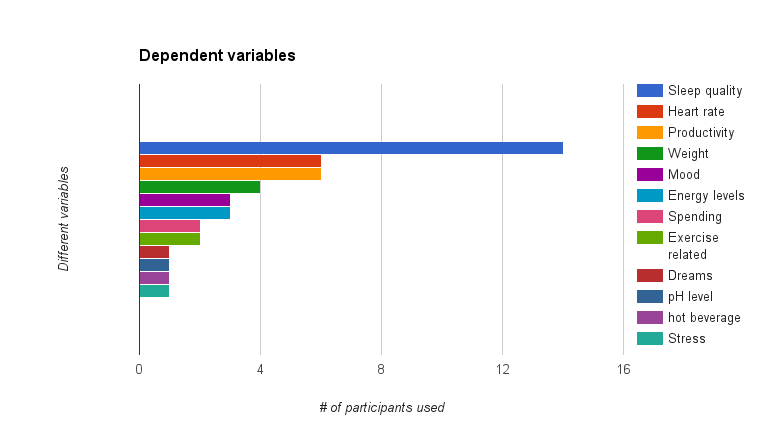
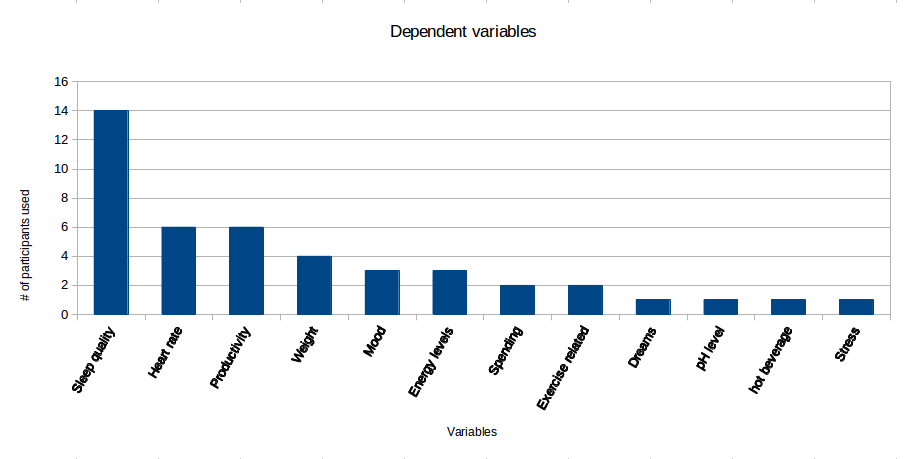
made changes to dependent variables and figures

diff --git a/SIGCHI2015LaTex/dependentvariables.tex b/SIGCHI2015LaTex/dependentvariables.tex
@@ -1,5 +1,5 @@
 \section{Dependent Variables}
-Participants in this project have been given the freedom to choose their own independent and dependent variables. This resulted in wide variety of variables to be tracked as there were varying interests and varying behavioral changes that participants wanted to experiment on. Below is the list of dependent variables that 21 participants tracked in this project. Please note that some of the variables have been grouped into a particular category. For examples the \enquote{Exercise} in the Fig.\ref{fig:variables} includes variables like \enquote{Pacing your run}  , \enquote{Swimming} and \enquote{Exercise occurrences}.
+Participants in this project have been given the freedom to choose their own independent and dependent variables. This resulted in wide variety of variables to be tracked as there were varying interests and varying behavioral changes that participants wanted to experiment on. Fig.\ref{fig:variables} has the list of dependent variables that 21 participants tracked in this project. Please note that some of the variables have been grouped into a particular category. For examples the \enquote{Exercise} in the Fig.\ref{fig:variables} includes variables like \enquote{Pacing your run}  , \enquote{Swimming} and \enquote{Exercise occurrences}.
 
 \begin{figure}[!t]\centering
 %\begin{wrapfigure}{o}{\textwidth}\centering
@@ -8,7 +8,7 @@ Participants in this project have been given the freedom to choose their own ind
 }%\end{wrapfigure}
 \end{figure}
 %
-It is very evident from Fig.\ref{fig:variables} that many participants felt necessary to track their sleep quality. Since the participant group are students of top tier college, it makes sense that sleep is something they care about in their lifestyle amidst loads of deadlines and activities. Also one can note from the previous section that the most of the devices participants used gives sleep quality as their main feature. Hence with sleep quality being the most important factor the participant group cares and it being the most easy variable that can be tracked using the devices, it is no surprise that 14 participants tracked this variable. 
+It is very evident from Fig.\ref{fig:variables} that many participants felt necessary to track their sleep quality. Since the participant group are students of top tier college, it makes sense that sleep is something they care about in their lifestyle amidst loads of deadlines and activities \cite{hershner2014causes} \cite{lund2010sleep}. Also one can note from the previous section that the most of the devices participants used gives sleep quality as their main feature. Hence with sleep quality being the most important factor the participant group cares and it being the most easy variable that can be tracked using the devices, it is no surprise that 14 participants tracked this variable. 
 
 After Sleep quality, Heart rate is another feature that wearable devices care to track about. With increasing heart diseases globally, this is one of most used metric to show if a person is healthy. Hence Heart rate is a variable that participants had easy access to and wanted to know the changes it had on their behavioral changes.
 
@@ -19,40 +19,37 @@ Weight is another variable that participant group cared to track with respect to
 Though there are other interesting variables people tracked during the experiment. this paper will focus on the top 4 variables and discuss insights and observations from the participants in detail.
 
 \begin{figure*}[!t]\centering
-%\begin{wrapfigure}{o}{\textwidth}\centering
 \includegraphics[width=0.47\textwidth]{images/Sleep_quality.jpg}
 \includegraphics[width=0.47\textwidth]{images/Productivity.jpg}
 \includegraphics[width=0.47\textwidth]{images/Heart_rate.jpg}
 \includegraphics[width=0.47\textwidth]{images/Weight.jpg}
-\caption{\footnotesize Dependent variables and the independent variables that were related to it by the participants \label{fig:dependentvsindependent} 
-}%\end{wrapfigure}
+\caption{\footnotesize Dependent variables and the independent variables that were related to it by the participants. Independent variables are clustered to represent a category such as \enquote{usage of devices}, \enquote{activities}, \enquote{schedule changes} and \enquote{consumption of drinks}. Green denotes that a conclusion was drawn out of the study, red denotes that the user rejected the hypothesis related to these variables and  blue denotes that no conclusion was drawn at the end of the study. \label{fig:dependentvsindependent} 
+}
 \end{figure*}
 
 \subsection{Sleep quality}
 For tracking sleep, participants used various applications and devices from Sleep As Android to FitBit which kept track of the amount of time people were in various levels of sleep (light, deep, R.E.M.) and how many times they woke up during the night. Devices have various approaches to measuring sleep quality. Mobile apps use ambient noise and movements in the bed to measure the sleep quality. Some wearable devices use body movements and others use a pulse sensor to measure sleep quality. The quality of the measurements is directly proportional to the cost of the device and hence the reported sleep quality measurements are approximations. 
 
-It is interesting to see what each participant\textquotesingle s hypothesis were and the independent variables that they hypothesized to affect sleep quality. Below figure shows all the independent variables that were reported directly related to sleep quality by the participants. The independent variables have been clustered into categories \enquote{usage of devices}, \enquote{activities}, \enquote{schedule changes} and \enquote{consumption of drinks}. The green edges indicates that these variables affect sleep quality. The red edge indicates that these variables do not have an effect on the sleep quality. The blue edge indicates that the experiments on these variables have not had any conclusion due to less data points.
+It is interesting to see what each participant\textquotesingle s hypothesis were and the independent variables that they hypothesized to affect sleep quality. Fig.\ref{fig:dependentvsindependent} shows all the independent variables that were reported directly related to sleep quality by the participants. The independent variables have been clustered into categories \enquote{usage of devices}, \enquote{activities}, \enquote{schedule changes} and \enquote{consumption of drinks}. The green edges indicates that these variables affect sleep quality. The red edge indicates that these variables do not have an effect on the sleep quality. The blue edge indicates that the experiments on these variables have not had any conclusion due to less data points.
 
-For the most part, least number (3) of variables seem to have affected sleep. Most of all the hypotheses (7) have been rejected by the participants. Significant number of hypotheses were inconclusive (4). 
+For the most part, least number (3) of variables seem to have affected sleep. Most of all the hypotheses (7) have been rejected by the participants. One can see that a number of hypotheses were inconclusive (4). 
 
 A common observation from the reports of the participants is that their hypothetical behavior that affects the sleep quality is not always true. For example, activities (except swimming) and device usage had no effect on the sleep quality as observed by the participants. Also one would certainly assume that a better schedule of the day will improve the sleep quality, but its been proven otherwise in this study. These are some interesting insights about the factors affecting sleep quality. 
 
 But one must note that, all these are conclusions highly biased to the individuals and their tracking methods. If every participant used a single common tracking mechanism to track the sleep quality, then it is easy to conclude in general that a particular behavior either improves or worsens the sleep quality. However with constraint on the number of days and experimental design one can adopt, some of these conclusions have given insights of what variables one might want to consider when they are tracking their sleep quality.
 
-Some interesting observations by the participants are: a) one participant had trouble falling asleep once they restricted their use of electronics, so they started reading to fill the time; b) one participant woke up more according to their findings; c) one of the user had seen improvement of 29 percent in the sleep quality when they swam in the night between 9-10.30 pm. 
-
-Others did not come to a conclusion because they felt the the variable was not properly tracked, for example, mobile devices were not as reliable in tracking sleep in comparison to wearable device. Some of the wearable devices track the motion of the hand to measure the sleep time and that could also be noisy and not accurate. So it may be the case that the data points has to be definitely more than 28 days to come to any conclusion on this regard. In addition to this the users are supposed to design their experiment in AB, ABA, ABAC etc format so they have less data points to the significant change they are tracking and I feel that the \enquote{Jet lag} pointed by one of the participant plays a significant role in producing the transition data.
+Some interesting observations by the participants are: a) one participant had trouble falling asleep once they restricted their use of electronics, so they started reading to fill the time; b) one participant woke up more according to their findings; c) one of the user had seen improvement of 29 percent in the sleep quality when they swam in the night between 9-10.30 pm. Few participants concluded that their Sleep tracking was not properly tracked and decided to stay inconclusive at the end of the study. One of the participant mentioned that wearable devices track the motion of the hand to measure the sleep time and that could also be noisy and not accurate. So it may be the case that the data points has to be definitely more than 28 days to come to any conclusion on this regard. In addition to this the users are supposed to design their experiment in AB, ABA, ABAC etc format so they have less data points to the significant change they are tracking and we also speculate that the \enquote{Jet lag} pointed by one of the participant plays a significant role in producing the transition data.
 
 \subsection{Productivity}
 
 
-Productivity is a subjective variable and in order to quantify, participants used metrics created based on the completeness of anticipated tasks, \enquote{productivity pulse} through RescueTime software, 1-10 scale based on time, 1-7 based on concentration intensity. Some of the apps and plugins used were RescueTime Plugin  and TimeStats Plugin.
+Productivity is a subjective variable and in order to quantify, participants used metrics created based on the completeness of anticipated tasks, \enquote{productivity pulse}, a metric from the app RescueTime software, 1-10 scale based on time, 1-7 based on concentration intensity. Some of the apps and plugins used were RescueTime Plugin  and TimeStats Plugin.
 
-Fig.\ref{fig:variables} shows how the independent that variables were related to the Productivity and its outcome at the end of the experiment.
+Fig.\ref{fig:dependentvsindependent} shows how the independent that variables were related to the Productivity and its outcome at the end of the experiment.
 
-As shown above, except for \enquote{Mobile usage} and \enquote{Time blocking}, all the other independent variables either didn’t have any impact on the productivity or their data points were not enough to conclude any claims.
+As shown above, except for \enquote{Mobile usage} and \enquote{Time blocking} \cite{timeblocking}, all the other independent variables either didn’t have any impact on the productivity or their data points were not enough to conclude any claims.
 
-As far as tracking productivity went, this was one of the most subjective processes.  There is no set metric for productivity nor were there any concrete ways in tracking it.  Across the different studies, productivity was in most cases a self reported process of doing work, through which each student employed some metric to express daily productivity.  This seems acceptable, as every person works differently, encounters personal setbacks and ranges in their times of productivity (whether it\textquotesingle s failing to complete a task or taking too long on a task or getting distracted) and presumably, their chosen methods of data collection and analysis were the ones that fit their perceptions of productivity best.  A common issue encountered with the trackers of productivity was spring break.  Unlike with an action or measurable effects (such as heart rate or weight), productivity is very dependent upon the status of the experimenter\textquotesingle s life.  As spring break arrived, the nature of the work needed to be done changes along with students schedules, rendering parts of time either harder to analyze or irrelevant to the study.  There were mixed results in the effects of different variables\textquotesingle  effects on productivity.  One user found the method of time blocking to be instrumental in significantly increasing their productivity (20-40), while independent variables such as swimming or a fixed sleep schedule did not produce statistically significant changes in productivity.  Class attendance had a significant correlation with productivity and data was just shy of being able to statistically prove it increased the experimenter\textquotesingle s productivity. 
+As far as tracking productivity went, this was one of the most subjective processes.  There is no set metric for productivity nor were there any concrete ways in tracking it.  Across the different studies, productivity was in most cases a self reported process of doing work, through which each student employed some metric to express daily productivity.  This seems acceptable, as every person works differently, encounters personal setbacks and ranges in their times of productivity (whether it\textquotesingle s failing to complete a task or taking too long on a task or getting distracted) and presumably, their chosen methods of data collection and analysis were the ones that fit their perceptions of productivity best.  A common issue encountered with the trackers of productivity was spring break.  Unlike with an action or measurable effects (such as heart rate or weight), productivity is very dependent upon the status of the experimenter\textquotesingle s life.  As spring break arrived, the nature of the work needed to be done changes along with students schedules, rendering parts of time either harder to analyze or irrelevant to the study.  There were mixed results in the effects of different variables\textquotesingle  effects on productivity.  One user found the method of \enquote{Time Blocking} \cite{timeblocking} to be instrumental in significantly increasing their productivity (20-40\%), while independent variables such as swimming or a fixed sleep schedule did not produce statistically significant changes in productivity.  Class attendance had a significant correlation with productivity and data was just shy of being able to statistically prove it increased the experimenter\textquotesingle s productivity. 
 
 Most importantly defining what is productive is first step in this experiment as experienced by the participants. It needs to be decided what counts as being productive for themselves. Is doing homework productive? Is cooking lunch or checking and answering emails productive? There are various layers and it\textquotesingle s difficult to understand what really is productive to you. Perhaps going to bed instead of staring at that math problem for three hours is more productive. After deciding what constitutes as productive to the user, perhaps they must also decide how intense the work is and how that might affect your data as one user pointed out. Overall, productivity is difficult to keep track of because it\textquotesingle s difficult to quantify an hour of doing mindless work to thirty minutes of intense focused problem solving. 
 
@@ -60,14 +57,14 @@ One common tracking mechanism people had was to self report their activities. So
 
 \subsection{Heart rate}
 Heart rate is measured either using a wearable tracking device that has special sensors or physically by recording the pulse of a hand. Participants used both these methods in their tracking experiment. 
-Fig.\ref{fig:variables} shows how the independent variables were related to the Heart rate and its outcome at the end of the experiment.
+Fig.\ref{fig:dependentvsindependent} shows how the independent variables were related to the Heart rate and its outcome at the end of the experiment.
 
-Exercise and Coffee intake has an impact on the heart rate. One of the participant made an interesting observation that Coffee intake increases the heart rate immediately after the consumption. Activities overall doesn\textquotesingle t improve the heart rate. Running in different time of the day doesn\textquotesingle t have any impact on the overall heart rate in a day. Participants are in age group of early and mid 20s and so there was no abnormal observations that were made. 
+Exercise and Coffee intake has an impact on the heart rate. One of the participant made an interesting observation that Coffee intake increases the heart rate immediately after the consumption. Activities overall doesn\textquotesingle t improve the heart rate. In contradiction to the medical research [CITE] participants concluded that running in different time of the day doesn\textquotesingle t have any impact on the overall heart rate in a day. Participants are in age group of early and mid 20s and so there was no abnormal observations that were made. 
 
 \subsection{Weight}
 
-This being a physical measurement, everyone used the standard scale. Below is the graph show how the independent variables were related to the Weight and its outcome at the end of the experiment.
-It can be noticed from above graph that except \enquote{Exercise} and \enquote{Reactive food} non other independent variables had an impact on weight. \enquote{Swimming} didn’t have significant effect on the weight and hence it was declared inconclusive. Overall weight as everyone knows is directly dependent on the food intake and the exercise. Weight is one of the most common factors that people would like to consider since being too fat contributes to hypertension, diabetes and some other diseases while being too skinny may cause to lose self-confidence. 
+This being a physical measurement, everyone used the standard scale. Fig.\ref{fig:dependentvsindependent} shows how the independent variables were related to the Weight and its outcome at the end of the experiment.
+It can be noticed from above graph that except \enquote{Exercise} and \enquote{Reactive food} non other independent variables had an impact on weight. \enquote{Swimming} didn’t have significant effect on the weight and hence it was declared inconclusive. Overall weight as everyone knows is directly dependent on the food intake and the exercise. Weight is one of the most common factors that people would like to consider since gaining body fat contributes to hypertension, diabetes and some other diseases while being too skinny may cause to lose self-confidence. 
 
-Some important observations are: a) One of the user showed that there is weight gain once he switched to post- 6PM runs; b) One user noticed that the weight measured in the morning is significantly lower compared to the weight of the body in the night. But none of the experiments have been super conclusive. Tracking the weight is not a noisy/uncertain like other variables we discussed in this section, but an increased duration of the study might have given more conclusive insights.
+Some important observations are: a) One of the user showed that there is weight gain (muscle gain) once he switched to post- 6PM runs; b) One user noticed that the weight measured in the morning is significantly lower compared to the weight of the body in the night. This is no surprise as fluid retention and food intake will vary the weight throughout the day. But none of the experiments have been super conclusive. Tracking the weight is not a noisy/uncertain like other variables we discussed in this section, but an increased duration of the study might have given more conclusive insights.
 

diff --git a/SIGCHI2015LaTex/behaviorchanges.tex b/SIGCHI2015LaTex/behaviorchanges.tex
@@ -1,11 +1,11 @@
 \section{Behavioural Changes}
 Overall, participants fall evenly between whether they changed their behavior after the experiment. In terms of personal informatics, many papers talk about the abundance of data that’s available to users but the lack of what to do with the data. Some papers begin to talk about what users do with information once they’ve done statistical analysis on their behavior or if that analysis is done for them and presented in a simple statement. The question asked as a result is what people do with these correlations and if these correlational statements lead to behavioral change. 
 
-\begin{figure}[!t]\centering
-\includegraphics[width=1.0\columnwidth]{images/behavior_change.jpg}
-\caption{\footnotesize Behavioural changes by participant group after the study \label{fig:behaviorchange} 
-}
-\end{figure}
+%\begin{figure}[!t]\centering
+%\includegraphics[width=1.0\columnwidth]{images/behavior_change.jpg}
+%\caption{\footnotesize Behavioural changes by participant group after the study \label{fig:behaviorchange} 
+%}
+%\end{figure}
 
     Most researchers hypothesize that often acknowledging and making these behaviors known lead to behavioral changes. Furthermore, it is believed that reflection upon a user\textquotesingle s behavior also leads to changes. When asked if their behaviors changed after performing the experiment, those who said yes were asked to specify, and most of them state that they observed a certain behavior or noticed something new which led them to change their behavior which coincides exactly to what researchers found in the past. 
     The next question that should be asked is why people decided not to change their behavior after doing this experiment. For this set of data specifically, some of the information might shed light on why a little more than half of the participants decided not to change their behavior. There are three main reasons why we believe they might not have made behavioral changes:

diff --git a/SIGCHI2015LaTex/discussionsoferrors.tex b/SIGCHI2015LaTex/discussionsoferrors.tex
@@ -2,11 +2,11 @@
 
 The focus of this study is to analyze how students might go about performing experiments in the department of personal informatics. Although the assignment specified various factors that users needed to take into account, it was vastly general and left the responsibility of design, decision, and analysis completely up to the user. This led to a wide range of different experiments and designs but often times users ran into similar problems.
 
-\begin{figure}[!t]\centering
-\includegraphics[width=1.0\columnwidth]{images/prior_experience.jpg}
-\caption{\footnotesize Prior experience of participants with self tracking \label{fig:experience} 
-}
-\end{figure}
+%\begin{figure}[!t]\centering
+%\includegraphics[width=1.0\columnwidth]{images/prior_experience.jpg}
+%\caption{\footnotesize Prior experience of participants with self tracking \label{fig:experience} 
+%}
+%\end{figure}
 
 In general, some participants had difficulty choosing the right design for their experiment. This includes those participants who would have benefited from using randomization rather than a variation of the AB design. Another error that various participants faced was a lack of statistical background and understanding which may have led to some naive conclusions in their report. Finally, an overall poor choice of variables to test was observed in many participants. When choosing a dependent variable, it should be something that is out of the user\textquotesingle s control, and therefore for students who chose sleep or productivity as their dependent variable, for example, because these variables are somewhat under their control (such as setting an alarm clock to wake up) these variables are not entirely dependent.  
 

diff --git a/SIGCHI2015LaTex/cs2300_personal_informatics_paper.tex b/SIGCHI2015LaTex/cs2300_personal_informatics_paper.tex
@@ -150,5 +150,5 @@ References must be the same font size as other body text.
 % References must be the same font size as other body text.
 
 \bibliographystyle{acm-sigchi}
-\bibliography{sample}
+\bibliography{ref}
 \end{document}
